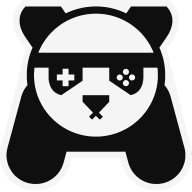
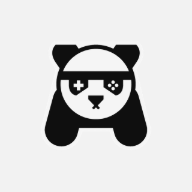
Deploy to TestEnvironment (Version 1.1.19)

diff --git a/flutter_service_worker.js b/flutter_service_worker.js
@@ -20,7 +20,7 @@ const RESOURCES = {"canvaskit/skwasm.wasm": "39dd80367a4e71582d234948adc521c0",
 "splash/img/light-3x.png": "8252990d7229d3965b2ab0ae85bc4f02",
 "splash/img/dark-2x.png": "c209435123ef6245a6c5f72b57ad755a",
 "splash/img/dark-3x.png": "8252990d7229d3965b2ab0ae85bc4f02",
-"manifest.json": "16796f2cec421f5e50f48fb01663bad3",
+"manifest.json": "8bc498419d656ee6f74a04e29d1bac0d",
 "main.dart.js": "9c87c459a31111e68e5054edad70f5bf",
 "flutter.js": "83d881c1dbb6d6bcd6b42e274605b69c",
 "index.html": "4066279985502d729b34001401b8fe19",
@@ -38,14 +38,14 @@ const RESOURCES = {"canvaskit/skwasm.wasm": "39dd80367a4e71582d234948adc521c0",
 "assets/fonts/MaterialIcons-Regular.otf": "6096f02a58e30ea1c9e30c2b04fbd617",
 "assets/FontManifest.json": "dc3d03800ccca4601324923c0b1d6d57",
 "favicon.png": "7f75a2244b29632fd384b215579c878a",
-"icons/Icon-512.png": "72f0ddf85c0feb650daf4a58422fd399",
+"icons/Icon-512.png": "ea48fb9880c82d624dc3b2282cf00e46",
 "icons/Icon-144.png": "77650e54f9fbdde69dde7fe7ffb934e9",
-"icons/Icon-maskable-192.png": "da3a393e1c3c8ace9202e53822af578d",
+"icons/Icon-maskable-192-v2.png": "cf66e1594406877b5b59128b563d6b47",
 "icons/Icon-96.png": "7b678632e098a409e3ef73cc0fb2b04e",
 "icons/Icon-72.png": "b01f313c0225573dc40498e4ec262d8b",
-"icons/Icon-192.png": "da3a393e1c3c8ace9202e53822af578d",
-"icons/Icon-maskable-512.png": "72f0ddf85c0feb650daf4a58422fd399",
-"flutter_bootstrap.js": "8bc8b810e5057c6c5c7a48dd69bb49fa",
+"icons/Icon-192.png": "68ca2baf466d7bd5be0b5db63199d812",
+"icons/Icon-maskable-512-v2.png": "ea48fb9880c82d624dc3b2282cf00e46",
+"flutter_bootstrap.js": "b94cc763f419e00a174507fd391d00c3",
 "firebase-messaging-sw.js": "ccd54d7c103493747f266f47f6eed9ed",
 "version.json": "d105f96638f1d658175cc48ef4a27daa",
 "service-worker.js": "7c2434e70de19d591241e61528951351"};

diff --git a/flutter_bootstrap.js b/flutter_bootstrap.js
@@ -39,6 +39,6 @@ _flutter.buildConfig = {"engineRevision":"dd93de6fb1776398bf586cbd477deade1391c7
 
 _flutter.loader.load({
   serviceWorkerSettings: {
-    serviceWorkerVersion: "2564216995"
+    serviceWorkerVersion: "2118504176"
   }
 });
